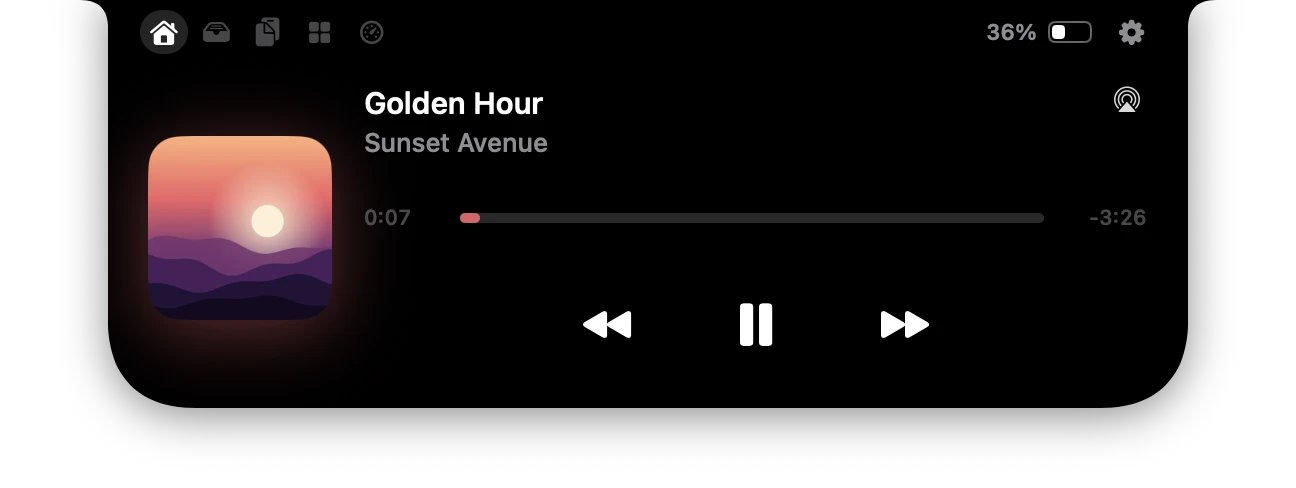
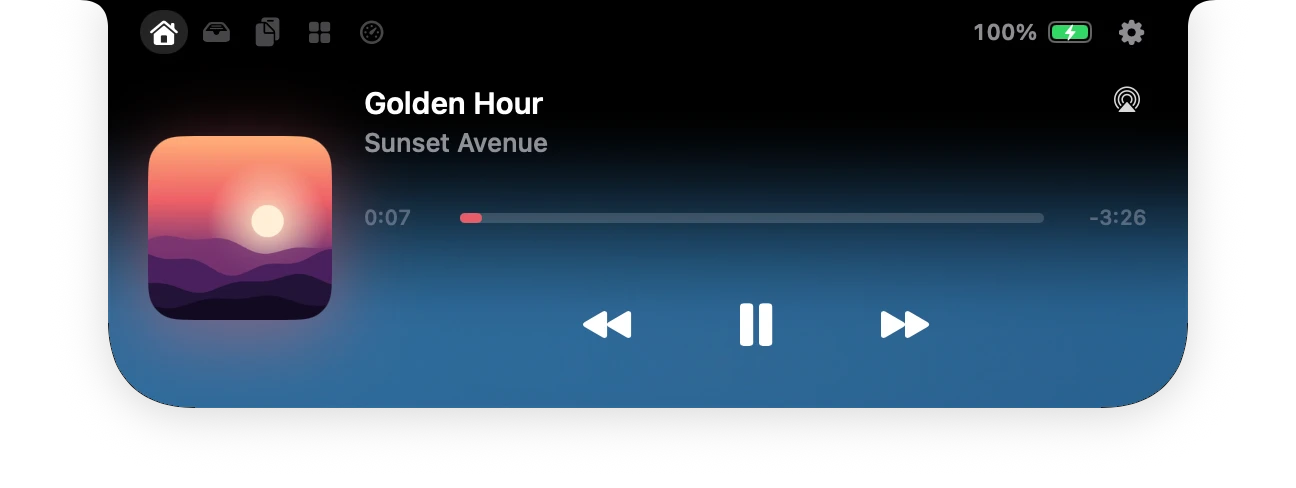
Website: the four kinds of glass, and captures that show the real glass
The island's glass shows what lies behind it, which a capture of its window
alone cannot hold: while the island is photographed, scripts/desktop-backdrop
now lays the website's macOS desktop over the screen just under it, and
scripts/glass-merge takes the inside of the island from a screen capture of the
same rectangle. The glass in every picture is the real glass over the very
desktop the website shows, and nothing of the Mac the pictures are taken on.
The capture waits if another app's window lies over the island.

The settings section gets a Four kinds of glass block, the mirror of Three
sizes: Liquid, Transparent, Tinted and Black, photographed over the lake and
its rocks (the desktop raised by 440 points), where the glass has something to
bend. Every island picture, the settings panes and the README figures are
retaken with the Liquid glass.

diff --git a/site/index.html b/site/index.html
@@ -202,6 +202,24 @@
           </figure>
         </div>
 
+        <div class="sizes glass">
+          <figure class="shot-frame">
+            <div class="stage size-stage glass-stage lake" style="--span:700;--rows:260" role="img" aria-label="The open island over a lake and its rocks, with its four kinds of glass: Liquid, Transparent, Tinted and Black.">
+              <img class="shot base" src="assets/island/rest.webp" style="--w:193" alt=""><img class="shot on" data-state="liquid" src="assets/island/glass-liquid.webp" style="--w:588" alt=""><img class="shot" data-state="transparent" src="assets/island/glass-transparent.webp" style="--w:588" alt=""><img class="shot" data-state="tinted" src="assets/island/glass-tinted.webp" style="--w:588" alt=""><img class="shot" data-state="black" src="assets/island/glass-black.webp" style="--w:588" alt="">
+            </div>
+          </figure>
+          <div class="sizes-text">
+            <h3>Four kinds of glass.</h3>
+            <p>On macOS 26 the open island stays black where it meets the notch and melts into glass below. Liquid bends the desktop behind it like a thick pane; Transparent lets it show through; Tinted frosts it; Black keeps the island as it was.</p>
+            <div class="chips size-chips glass-chips" role="group" aria-label="Glass">
+              <button type="button" class="chip" data-glass="liquid" aria-pressed="true">Liquid</button>
+              <button type="button" class="chip" data-glass="transparent" aria-pressed="false">Transparent</button>
+              <button type="button" class="chip" data-glass="tinted" aria-pressed="false">Tinted</button>
+              <button type="button" class="chip" data-glass="black" aria-pressed="false">Black</button>
+            </div>
+          </div>
+        </div>
+
         <div class="app-shots">
           <figure><img src="assets/app/settings-activities.webp" width="1560" height="1160" alt="Islet Settings, the Live activities pane: music, track changes, headphones, charging, microphone and camera." loading="lazy"><figcaption><b>Choose what appears beside the camera</b>Music, new tracks, headphones, charging, the microphone and camera, your agents: each can stay quiet.</figcaption></figure>
           <figure><img src="assets/app/settings-general.webp" width="1560" height="1160" alt="Islet Settings, the General pane." loading="lazy"><figcaption><b>And the rest</b>Open at login, the display to use, hidden in full screen, kept off screen recordings, and &#8963;&#8997;&#8984;I to open it from the keyboard.</figcaption></figure>

diff --git a/site/js/site.js b/site/js/site.js
@@ -156,27 +156,28 @@
     }, { threshold: 0.3 }).observe(custom);
   }
 
-  // Sizes: chips, and a slow tour until one is chosen.
-  const sizeStage = document.querySelector('.size-stage');
-  const sizeChips = [...document.querySelectorAll('.size-chips .chip')];
-  if (sizeStage && sizeChips.length) {
-    const order = sizeChips.map((chip) => chip.dataset.size);
-    let current = order.indexOf('standard');
+  // Sizes and glass: chips, and a slow tour until one is chosen.
+  const chipTour = (stage, chips, key, start) => {
+    if (!stage || !chips.length) return;
+    const order = chips.map((chip) => chip.dataset[key]);
+    let current = order.indexOf(start);
     let tour = null;
     const show = (index) => {
       current = index;
-      sizeStage.querySelectorAll('.shot[data-state]').forEach((shot) => shot.classList.toggle('on', shot.dataset.state === order[index]));
-      sizeChips.forEach((chip, i) => chip.setAttribute('aria-pressed', String(i === index)));
+      stage.querySelectorAll('.shot[data-state]').forEach((shot) => shot.classList.toggle('on', shot.dataset.state === order[index]));
+      chips.forEach((chip, i) => chip.setAttribute('aria-pressed', String(i === index)));
     };
-    sizeChips.forEach((chip, i) => chip.addEventListener('click', () => { clearInterval(tour); tour = -1; show(i); }));
+    chips.forEach((chip, i) => chip.addEventListener('click', () => { clearInterval(tour); tour = -1; show(i); }));
     if (!reduce) {
       new IntersectionObserver(([entry]) => {
         if (tour === -1) return;
         clearInterval(tour);
         tour = entry.isIntersecting ? setInterval(() => show((current + 1) % order.length), 2400) : null;
-      }, { threshold: 0.4 }).observe(sizeStage);
+      }, { threshold: 0.4 }).observe(stage);
     }
-  }
+  };
+  chipTour(document.querySelector('.sizes:not(.glass) .size-stage'), [...document.querySelectorAll('.sizes:not(.glass) .size-chips .chip')], 'size', 'standard');
+  chipTour(document.querySelector('.glass-stage'), [...document.querySelectorAll('.glass-chips .chip')], 'glass', 'liquid');
 
   // Ruben's own page counter (ruben-analytics): one anonymous page view, no cookie, no identifier, sent only from
   // the published site.

diff --git a/scripts/glass-merge.swift b/scripts/glass-merge.swift
@@ -1,0 +1,27 @@
+// swift scripts/glass-merge.swift <window.png> <screen.png>: a capture of the island's window alone keeps its outline and
+// shadow but not what shows through its glass, which only the screen has. Inside the island (opaque in the window
+// capture) the pixels are taken from the screen capture of the same rectangle; the window capture is rewritten.
+import AppKit
+
+func load(_ path: String) -> CGImage {
+    let source = CGImageSourceCreateWithURL(URL(fileURLWithPath: path) as CFURL, nil)!
+    return CGImageSourceCreateImageAtIndex(source, 0, nil)!
+}
+func pixels(_ image: CGImage) -> (CGContext, UnsafeMutablePointer<UInt8>) {
+    let context = CGContext(data: nil, width: image.width, height: image.height, bitsPerComponent: 8, bytesPerRow: image.width * 4,
+                            space: CGColorSpace(name: CGColorSpace.sRGB)!, bitmapInfo: CGImageAlphaInfo.premultipliedLast.rawValue)!
+    context.draw(image, in: CGRect(x: 0, y: 0, width: image.width, height: image.height))
+    return (context, context.data!.assumingMemoryBound(to: UInt8.self))
+}
+let windowPath = CommandLine.arguments[1]
+let window = load(windowPath), screen = load(CommandLine.arguments[2])
+guard window.width == screen.width, window.height == screen.height else { fatalError("the two captures differ in size") }
+let (context, island) = pixels(window)
+// The screen's context owns its pixels: it is kept alive while they are read.
+let (screenContext, desk) = pixels(screen)
+withExtendedLifetime(screenContext) {
+    for i in stride(from: 0, to: window.width * window.height * 4, by: 4) where island[i + 3] == 255 {
+        island[i] = desk[i]; island[i + 1] = desk[i + 1]; island[i + 2] = desk[i + 2]
+    }
+}
+try! NSBitmapImageRep(cgImage: context.makeImage()!).representation(using: .png, properties: [:])!.write(to: URL(fileURLWithPath: windowPath))

diff --git a/scripts/desktop-backdrop.swift b/scripts/desktop-backdrop.swift
@@ -1,0 +1,25 @@
+// swift scripts/desktop-backdrop.swift <desktop.png> [points]: shows the website's macOS desktop over the whole screen,
+// just under the island (above the menu bar), until it is killed. The island's glass then shows the very desktop the
+// website lays its captures on, and nothing of the Mac they were taken on. With a number of points, the desktop is
+// raised by that much, to put a busier part of it (the lake) behind the island.
+import AppKit
+
+let image = NSImage(contentsOfFile: CommandLine.arguments[1])!
+let raise = CommandLine.arguments.count > 2 ? Double(CommandLine.arguments[2])! : 0
+let app = NSApplication.shared
+app.setActivationPolicy(.accessory)
+let screen = NSScreen.main!.frame
+let window = NSWindow(contentRect: screen, styleMask: .borderless, backing: .buffered, defer: false)
+let view = NSImageView(frame: NSRect(x: 0, y: raise, width: screen.width, height: screen.height))
+view.image = image
+view.imageScaling = .scaleAxesIndependently
+let content = NSView(frame: NSRect(origin: .zero, size: screen.size))
+content.wantsLayer = true
+content.layer?.backgroundColor = NSColor.black.cgColor
+content.addSubview(view)
+window.contentView = content
+// The island floats at the status window level (25) plus 2; the menu bar sits at 24.
+window.level = NSWindow.Level(rawValue: 26)
+window.ignoresMouseEvents = true
+window.orderFrontRegardless()
+app.run()

diff --git a/site/css/islet.css b/site/css/islet.css
@@ -238,8 +238,11 @@
 .size-chips { justify-content: flex-start; margin-top: 20px; }
 .size-stage .shot[data-state] { opacity: 0; transition: opacity 0.25s linear; }
 .size-stage .shot[data-state].on { opacity: 1; }
+/* The glass block mirrors the sizes: picture first, text after, over the lake part of the desktop. */
+.stage.lake { background-image: url('../assets/desktop-lake.webp'); }
+.sizes.glass { grid-template-columns: 1.2fr 0.8fr; margin-top: 64px; }
 #app .app-shots { margin-top: 80px; grid-template-columns: 1fr 1fr; }
 @media (max-width: 834px) {
-  .custom, .sizes { grid-template-columns: 1fr; }
+  .custom, .sizes, .sizes.glass { grid-template-columns: 1fr; }
   #app .app-shots { grid-template-columns: 1fr; }
 }
